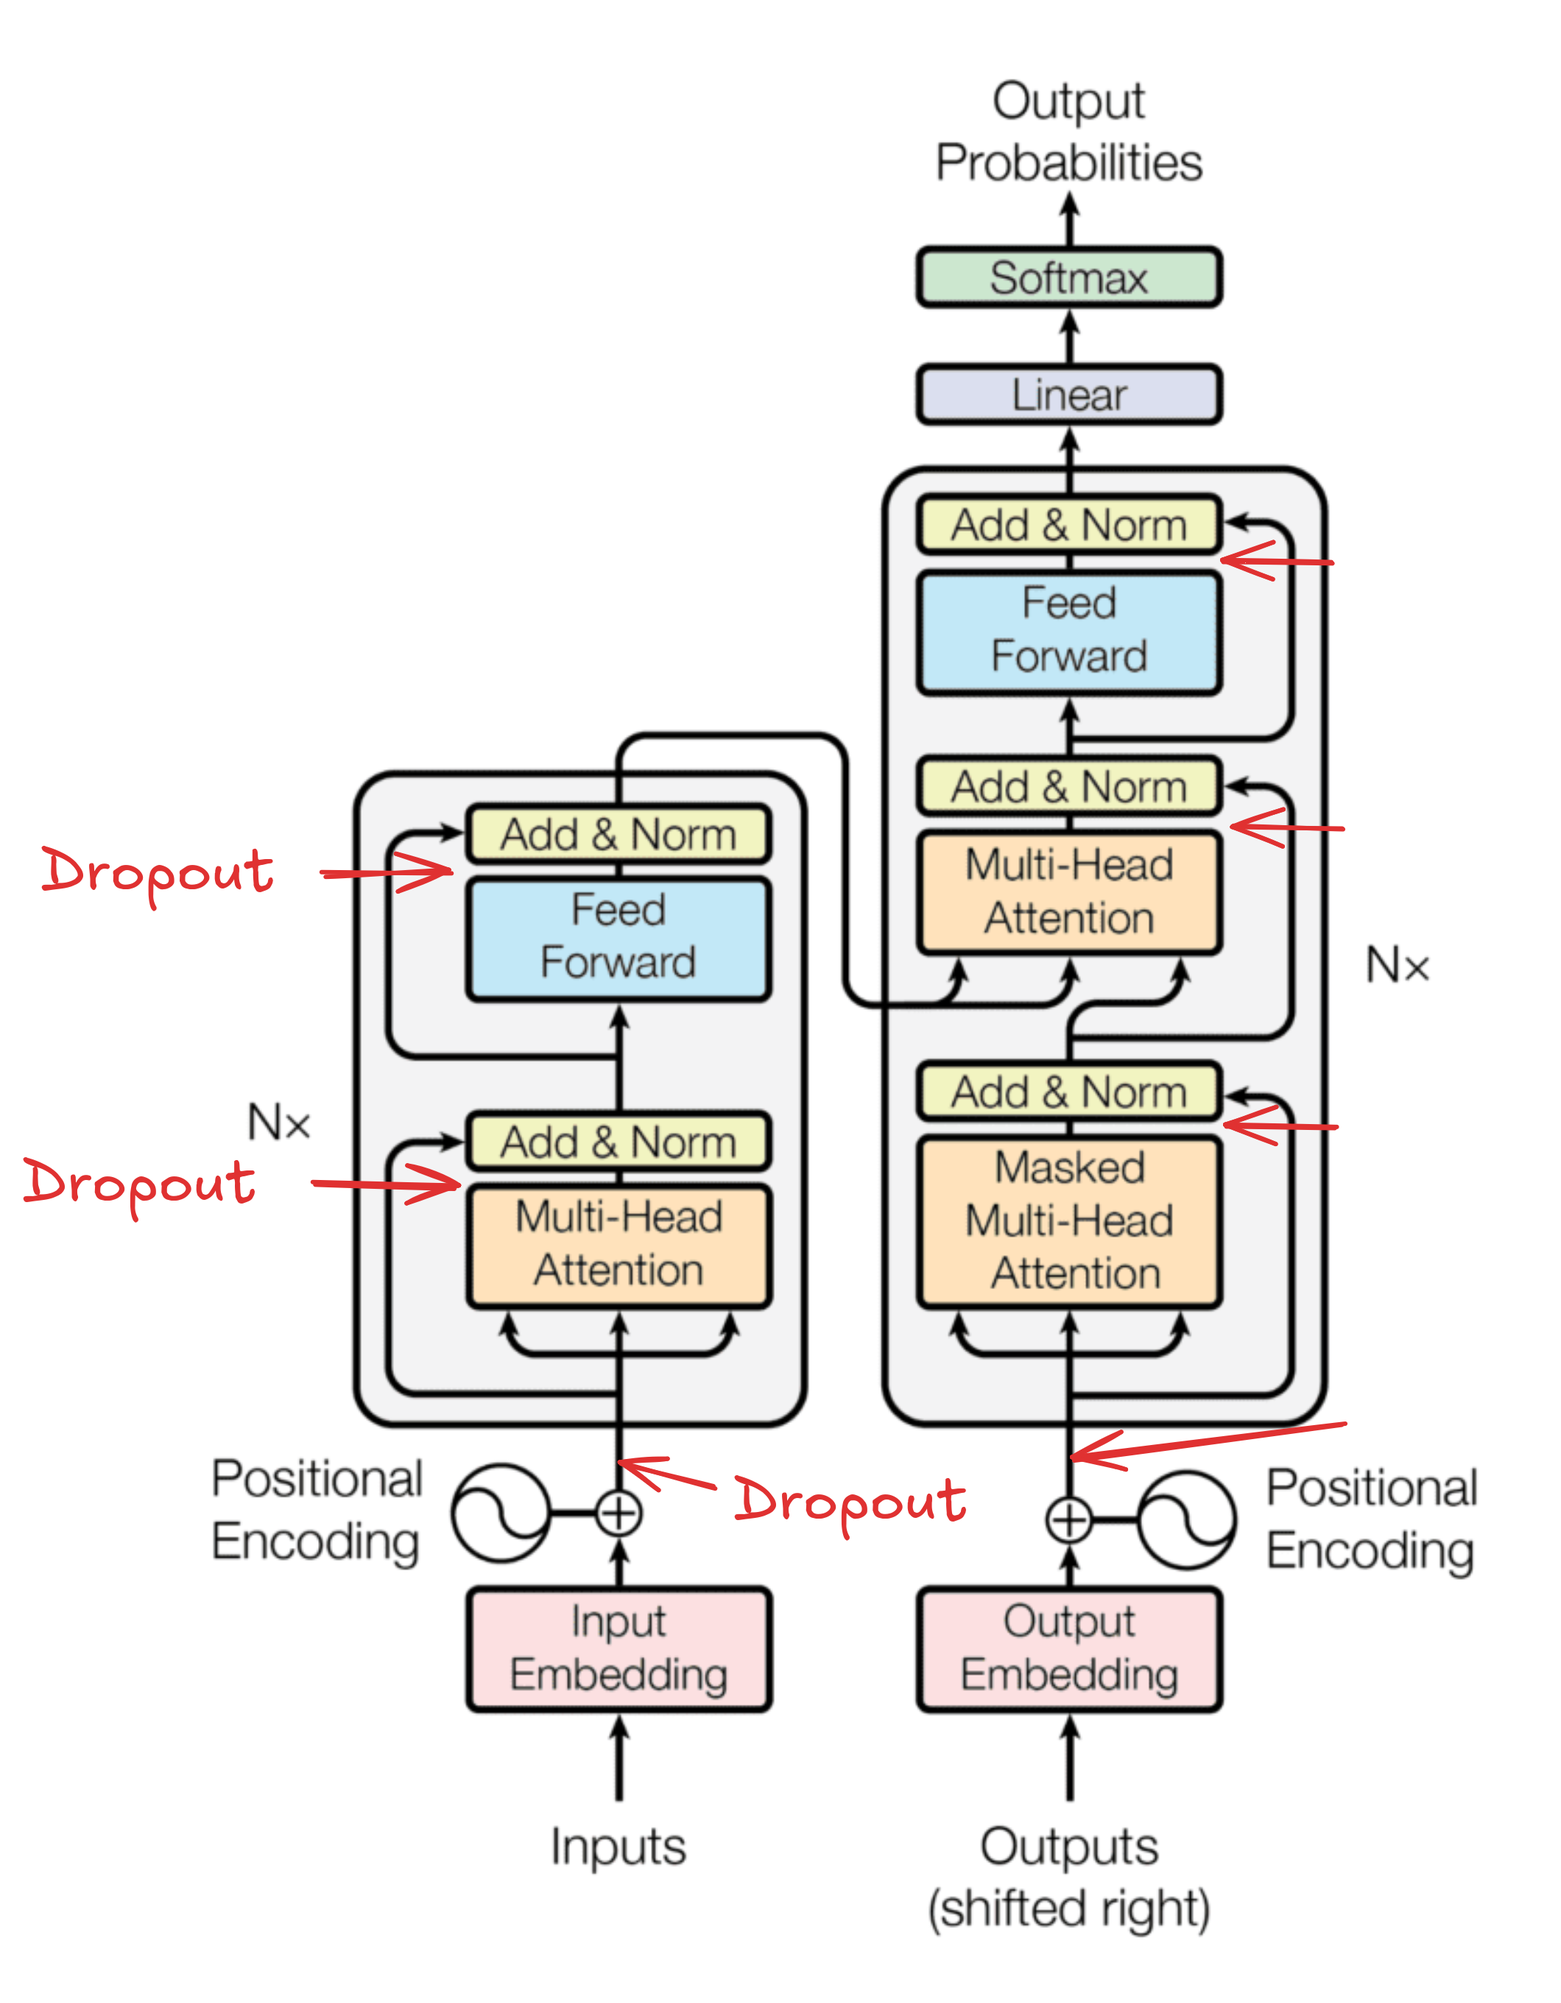
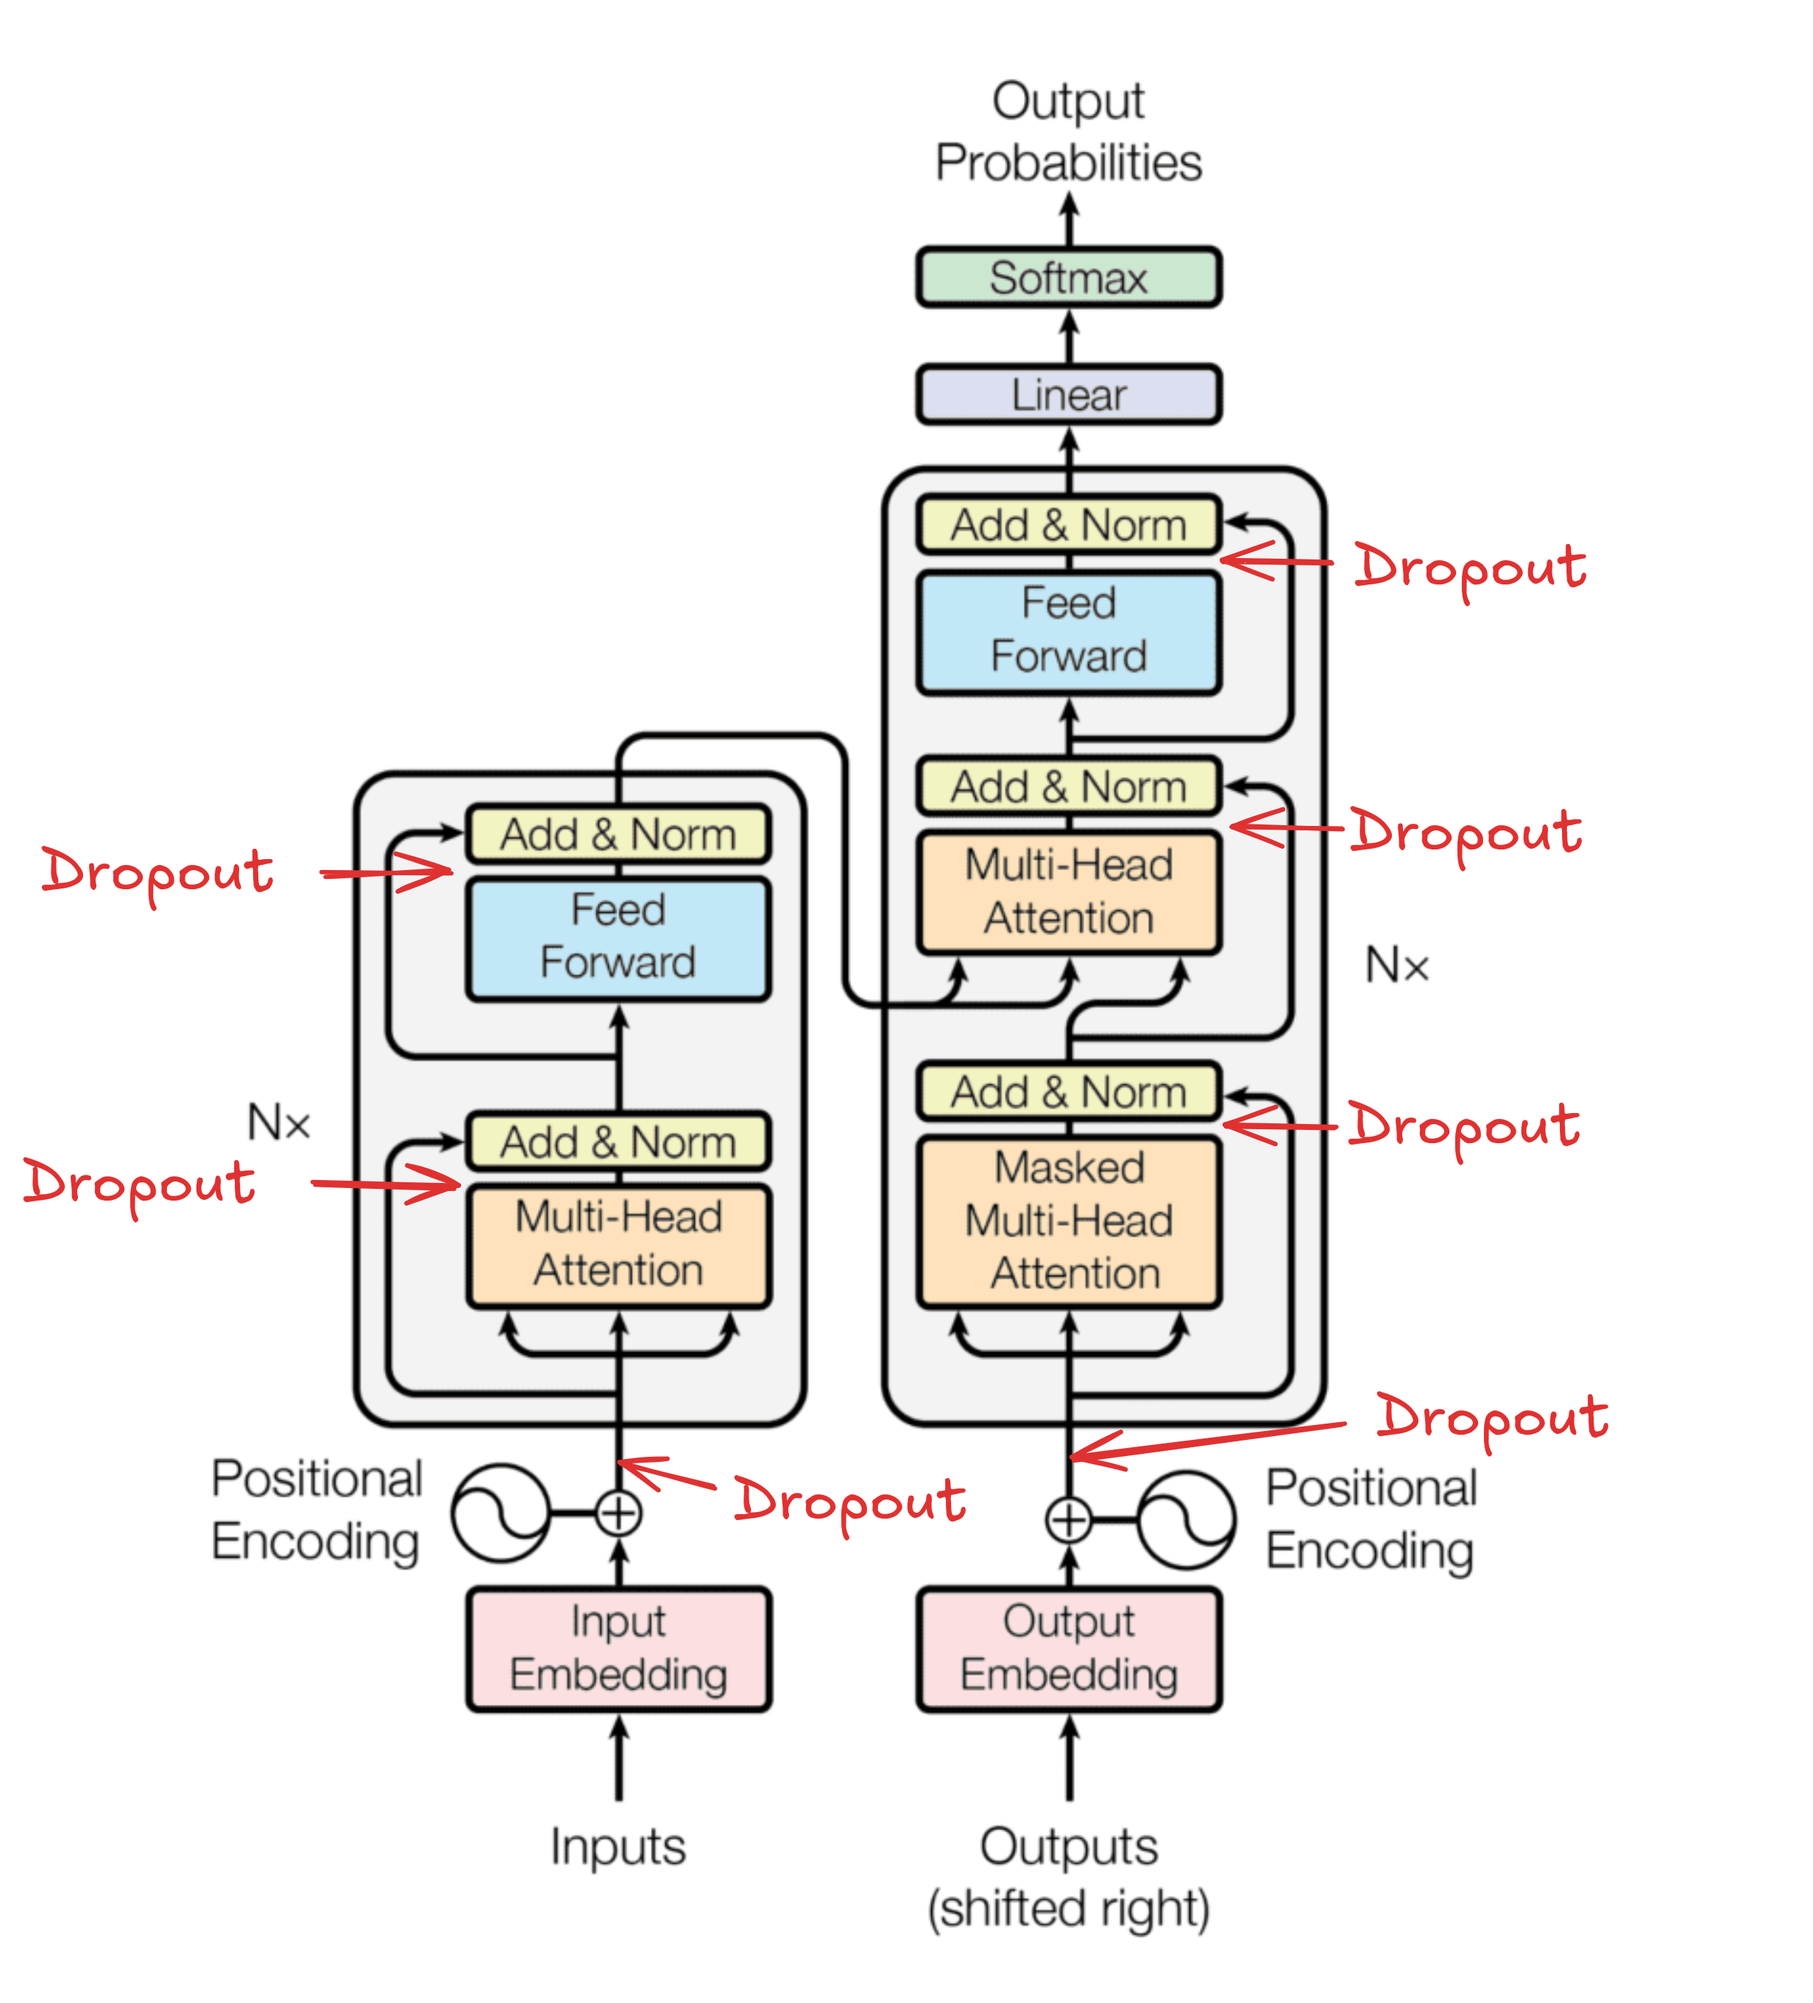
Readme extended with Dropout and fixed in the code.

Changed region(s): [[0.0, 0.0312, 0.9651, 0.9684]]

diff --git a/model/Transformer.py b/model/Transformer.py
@@ -42,6 +42,7 @@ class Transformer(nn.Module):
                                                      config.embedding_size)
 
         self.positional_encoding = PositionalEncoding(config.embedding_size)
+        self.dropout = nn.Dropout(config.dropout)
 
     def forward(self, x,  y, source_mask = None,target_mask = None):
         source_embedding = self.source_embedding(x)
@@ -53,6 +54,7 @@ class Transformer(nn.Module):
            Add positional encoding to the embedding
        '''
         source_embedding = source_embedding + source_encoding
+        source_embedding = self.dropout(source_embedding)
         '''
             ENCODER
         '''
@@ -63,6 +65,7 @@ class Transformer(nn.Module):
         target_embedding = self.target_embedding(y)
         target_encoding = self.positional_encoding(y)
         target_embedding = target_embedding + target_encoding
+        target_embedding = self.dropout(target_embedding)
         out = self.decoder(x=target_embedding, decoder_mask=target_mask, encoder_output=encoder_output)
         '''
             OUTPUT
